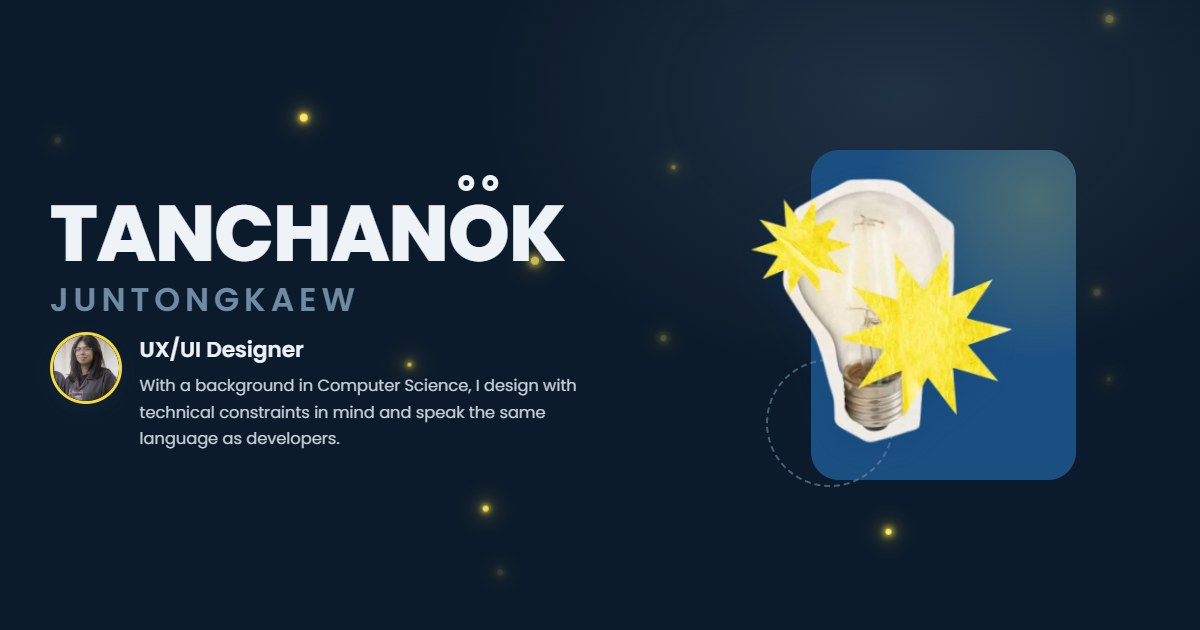
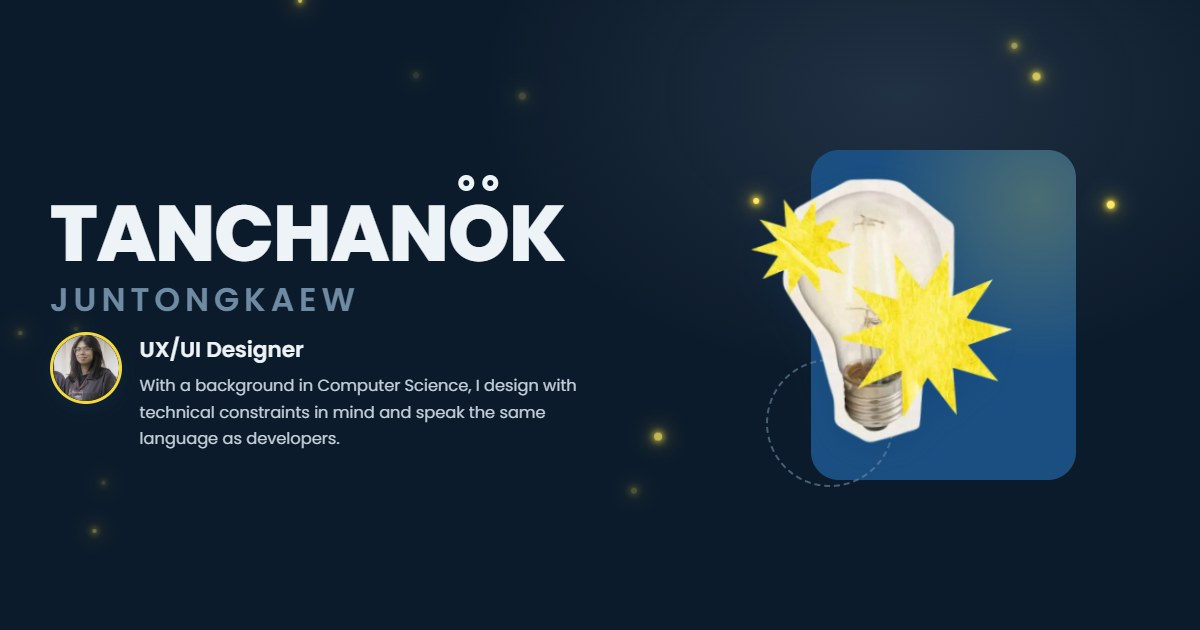
DOK-MAI: annotated garden screen in a phone frame

diff --git a/src/pages/cases/DokMai.jsx b/src/pages/cases/DokMai.jsx
@@ -52,12 +52,12 @@ const DEMO = [
 ];
 
 const GARDEN_CALLOUTS = [
-  { label: "Visit other gardens", x: 0.14, y: 0.28, side: "left" },
-  { label: "Each flower is a planted song", x: 0.3, y: 0.5, side: "left" },
-  { label: "The song that is playing", x: 0.07, y: 0.775, side: "left" },
-  { label: "Garden name", x: 0.82, y: 0.165, side: "right" },
-  { label: "Share your garden", x: 0.86, y: 0.28, side: "right" },
-  { label: "Play, pause and skip", x: 0.8, y: 0.845, side: "right" },
+  { label: "Visit other gardens", x: 0.184, y: 0.290, side: "left" },
+  { label: "Each flower is a planted song", x: 0.325, y: 0.500, side: "left" },
+  { label: "The song that is playing", x: 0.123, y: 0.762, side: "left" },
+  { label: "Garden name", x: 0.781, y: 0.181, side: "right" },
+  { label: "Share your garden", x: 0.816, y: 0.290, side: "right" },
+  { label: "Play, pause and skip", x: 0.763, y: 0.829, side: "right" },
 ];
 
 const CHOICES = [
@@ -138,7 +138,7 @@ export default function DokMai({ project }) {
         <div className="cs-text">
           <p>The garden screen holds everything at once: your plot, the song playing, and ways to share it.</p>
         </div>
-        <Annotated img="demo-dok-garden" alt="DOK-MAI garden screen on a phone" callouts={GARDEN_CALLOUTS} width={280} />
+        <Annotated img="dokmai-phone-garden" alt="DOK-MAI garden screen on a phone" callouts={GARDEN_CALLOUTS} width={300} />
       </Sec>
 
       <Sec title="Design choices">

diff --git a/src/data.js b/src/data.js
@@ -78,6 +78,7 @@ const IMG_SIZES = {
   "tripped-duck-white": [400, 375],
   "tripped-duck-black": [400, 375],
   "dokmai-picker": [340, 700],
+  "dokmai-phone-garden": [310, 635],
   "demo-dok-search": [273, 605],
   "demo-dok-pick": [419, 926],
   "demo-dok-garden": [272, 605],
